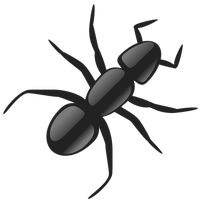
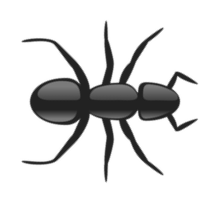
fixed ant image rotation

Changed region(s): [[0.0, 0.0, 0.99, 0.99], [0.42, 0.99, 0.45, 1.0]]

diff --git a/src/ants_plugin.rs b/src/ants_plugin.rs
@@ -179,7 +179,7 @@ fn vec3_angle(v: Vec3) -> f32 {
 fn ant_movement_system(mut query: Query<(&Ant, &mut Transform)>) {
     for (ant, mut transform) in query.iter_mut() {
         transform.translation += ant.velocity * TIME_STEP;
-        let angle = vec3_angle(ant.velocity) - std::f32::consts::PI / 4.0;
+        let angle = vec3_angle(ant.velocity);
         transform.rotation = Quat::from_rotation_z(angle);
     }
 }
